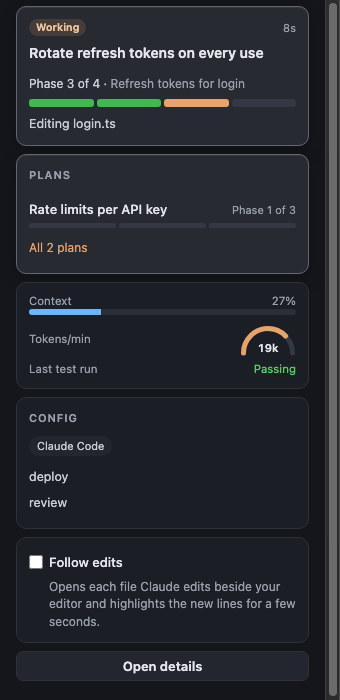
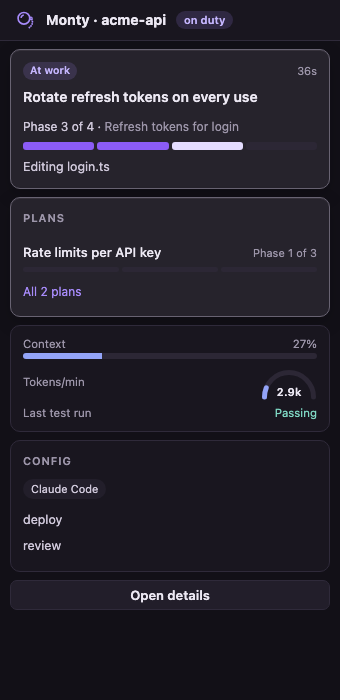
docs: multi-agent READMEs, new screenshots, Monty's voice
The README and the Marketplace listing still said Claude Code only and showed the
old orange theme. They now list the six agents with where each is read and its
caveats, and the screenshots are retaken in the violet theme. The demo script
gains a Codex session so the screenshots show the agent label and a needs-you
state from fictional data.

diff --git a/vscode/README.md b/vscode/README.md
@@ -1,43 +1,56 @@
 # Monty
 
-**Keeps an eye on Claude Code, so you don't have to.** See what your session is doing right now, how far through its plan it is, and which files it has touched, without reading the transcript. On a Mac, a monocle in the menu bar tells you when a session needs you.
+**A discreet eye on your coding agent.** Monty shows what your session is doing right now, how far through its plan it is, and which files it has touched, so you needn't read the transcript. On a Mac, a monocle in the menu bar taps the glass when a session needs you.
 
-![The details view: session, plan progress, what Claude is doing now, activity and files changed](https://raw.githubusercontent.com/adivmaimon/monty/main/docs/screenshots/details.png)
+Works with Claude Code, Codex CLI, opencode, Cline, Roo Code and GitHub Copilot Chat.
+
+![The details view: session, plan progress, what the agent is doing now, activity and files changed](https://raw.githubusercontent.com/adivmaimon/monty/main/docs/screenshots/details.png)
 
 ## What you get
 
-- **A sidebar for the open repo.** The session's state (working, needs you, your turn, done), the plan it's working through as a progress bar, what it's doing right now, context used, and whether the last test run passed.
-- **A details view** with everything: activity, files changed, every plan in the repo, and the repo's AI setup (instructions files, the rules in them, skills, commands, guardrails).
-- **Plans you can read.** Every `.md` opens in a readable view: collapsible sections, phases with progress, Mermaid diagrams, and file references that open in the editor. It updates live as Claude ticks off phases.
-- **Follow mode** (off until you turn it on). Each file Claude changes opens beside your editor with the changed lines highlighted for a moment.
+- **A sidebar for the open repo.** The session's state (at work, needs you, your move, all done), the plan it's working through as a progress bar, what it's doing right now, context used, and whether the last test run passed.
+- **A details view** with the lot: activity, files changed, every plan in the repo, and the repo's AI setup (instructions files, the rules in them, skills, commands, guardrails).
+- **Plans you can read.** Every `.md` opens in a readable view: collapsible sections, phases with progress, Mermaid diagrams, and file references that open in the editor. It updates live as the agent ticks off phases.
+- **Follow mode** (off until you turn it on). Each file the agent changes opens beside your editor with the new lines highlighted for a moment.
 - **Explorer dots** on files the session changed (●) or read (·).
-- **A Mac menu bar app** (optional). The monocle's rim fills as the plan progresses, an orange dot means a session needs you, and a notification tells you too. Monty offers to install it the first time you open VS Code on a Mac.
+- **A Mac menu bar app** (optional). The monocle's rim fills as the plan progresses, a dot appears when a session needs you, and a notification says so too. Monty offers to install it the first time you open VS Code on a Mac.
 
 <p>
   <img alt="The sidebar" src="https://raw.githubusercontent.com/adivmaimon/monty/main/docs/screenshots/sidebar.png" width="300">
-  <img alt="The menu bar dropdown" src="https://raw.githubusercontent.com/adivmaimon/monty/main/docs/screenshots/menubar.png" width="380">
+  <img alt="The menu bar dropdown, with a Codex session that needs you and a Claude Code session at work" src="https://raw.githubusercontent.com/adivmaimon/monty/main/docs/screenshots/menubar.png" width="380">
 </p>
 
 ![A plan in the readable view](https://raw.githubusercontent.com/adivmaimon/monty/main/docs/screenshots/plan.png)
 
+## Which agents
+
+| Agent | Where Monty reads it | Good to know |
+|---|---|---|
+| Claude Code | `~/.claude/projects` | The most complete: todo lists, skills in use, permission guesses. |
+| Codex CLI | `~/.codex/sessions` (or `$CODEX_HOME`) | Codex doesn't record approval requests, so "needs you" is a timing guess and says "probably". |
+| opencode | `~/.local/share/opencode` (or `$XDG_DATA_HOME`) | Both the database (1.2 and later) and the older JSON files. |
+| Cline | VS Code's extension storage, and `~/.cline/data` | Cline 4 keeps sessions in one place or the other depending on the build; both are read. |
+| Roo Code | VS Code's extension storage | Roo asks before every step, so a step only counts as waiting after a few seconds. A custom storage path isn't followed. |
+| Copilot Chat | VS Code's workspace storage | VS Code saves chats about once a minute, so Monty can trail the chat panel by up to a minute. |
+
+Cursor, Windsurf and VSCodium are covered too, for the extensions above that run in them. When more than one agent is about, each session carries a small label saying which.
+
 ## Privacy
 
-Monty reads two things on your machine: Claude Code's session logs (`~/.claude/projects`) and the plan and config files in your repos. It runs a small local server on `127.0.0.1:4747` for VS Code and the menu bar app to talk to. Nothing leaves your machine: no telemetry, no accounts, no cloud.
+Monty reads two things on your machine: your agents' session records (the folders above) and the plan and config files in your repos. It runs a small local server on `127.0.0.1:4747` for VS Code and the menu bar app to talk to. Nothing leaves your machine: no telemetry, no accounts, no cloud. It never opens the credential files that sit beside some of those records.
 
 The one network request Monty ever makes is downloading the menu bar app from this repo's GitHub Releases, and only when you click Install. It checks Apple's signature on the download before installing it.
 
-Monty never writes to your repos or to `~/.claude`.
+Monty never writes to your repos or to any agent's folders.
 
 ## How progress works
 
-Claude Code doesn't keep a task list Monty can read, so progress comes from your plans. Monty reads plan files in:
+When the agent keeps a task list (Claude Code's todos, Codex's plan, Cline's focus chain, Roo's todo list), that is the progress bar. Otherwise progress comes from your plans. Monty reads plan files in:
 
 - `.claude/projects/{active,completed,parked,cancelled}/*.md`, using `### Phase N` headings and ` - DONE (date)` markers
 - [OpenSpec](https://github.com/Fission-AI/OpenSpec) (`openspec/changes/*/tasks.md`)
 - [Spec Kit](https://github.com/github/spec-kit) (`specs/*/tasks.md`)
 - [Kiro](https://kiro.dev) (`.kiro/specs/*/tasks.md`)
-
-A session's progress bar follows the active plan in its repo.
 
 ## Settings
 
@@ -51,8 +64,8 @@ Commands: **Monty: Open details**, **Monty: Toggle follow mode**, **Open readabl
 
 ## Good to know
 
-- **Claude Code's log format isn't a published API.** Monty reads it defensively, but a Claude Code update can change what it can see. If something looks off after an update, please [open an issue](https://github.com/adivmaimon/monty/issues).
-- **"Probably waiting for permission"** is a guess from timing, and it says so. In auto mode Monty doesn't guess, because Claude Code doesn't ask there.
+- **None of these agents publish their log formats.** Monty reads them defensively, built from each tool's source code, but an update can change what it sees. If something looks off after one, please [open an issue](https://github.com/adivmaimon/monty/issues).
+- **Guesses say so.** "Probably awaiting your permission" is a guess from timing, and it reads as one. In Claude Code's auto mode Monty doesn't guess, because nothing asks.
 - **The menu bar app is macOS only.** Everything else works on macOS, Windows and Linux.
 
 ## License

diff --git a/README.md b/README.md
@@ -1,6 +1,6 @@
 # Monty
 
-Keeps an eye on your coding agent. Monty watches Claude Code sessions and the plans in your repos, and shows progress in VS Code and the Mac menu bar.
+A discreet eye on your coding agent. Monty watches sessions from Claude Code, Codex CLI, opencode, Cline, Roo Code and Copilot Chat, along with the plans in your repos, and reports progress in VS Code and the Mac menu bar. It is local, read-only, and never interrupts.
 
 **Install:** search "Monty" in the VS Code Extensions view, or see the [extension's page](vscode/README.md) for what it does, privacy and settings.
 
@@ -11,13 +11,13 @@ Keeps an eye on your coding agent. Monty watches Claude Code sessions and the pl
 One local core, several thin surfaces.
 
 ```
-~/.claude/projects/*/*.jsonl ──┐
-                               ├─> core (Node, src/) ── HTTP/SSE on 127.0.0.1:4747 ──> VS Code extension (vscode/)
-plans and config in your repos ┘                                                  ├─> Mac menu bar app (menubar/MontyApp/)
-                                                                                  └─> browser panel (web/, for development)
+agent session records ─────────┐
+(Claude Code, Codex, opencode, ├─> core (Node, src/) ── HTTP/SSE on 127.0.0.1:4747 ──> VS Code extension (vscode/)
+ Cline, Roo, Copilot Chat)     │                                                  ├─> Mac menu bar app (menubar/MontyApp/)
+plans and config in your repos ┘                                                  └─> browser panel (web/, for development)
 ```
 
-- `src/`: the core. Node built-ins only, no runtime dependencies. It reads session logs incrementally (`session.ts`), plans (`projects.ts`) and AI tool config (`setup.ts`), and serves state on localhost only (`server.ts`).
+- `src/`: the core. Node built-ins only, no runtime dependencies. Each agent has a reader in `src/agents/` that feeds one shared session model (`model.ts`); the core also reads plans (`projects.ts`) and AI tool config (`setup.ts`), and serves state on localhost only (`server.ts`).
 - `web/`: the panel. Plain HTML, CSS and JS with no build step; the same page runs in VS Code webviews and a browser tab.
 - `vscode/`: the extension. It bundles the core and starts it with VS Code's own Node.
 - `menubar/MontyApp/`: the menu bar app. Swift, built with SwiftPM, with no Xcode project.
@@ -36,16 +36,17 @@ code --install-extension vscode/monty.vsix
 menubar/MontyApp/build.sh   # local menu bar build (ad-hoc signed)
 ```
 
-To try it without your own sessions, `node docs/demo/make-demo.mjs /tmp/monty-demo` builds a fictional repo and session log; the script's header says how to point the core at it.
+To try it without your own sessions, `node docs/demo/make-demo.mjs /tmp/monty-demo` builds two fictional repos with a Claude Code and a Codex session; the script's header says how to point the core at it.
 
-Settings for the core come from environment variables: `MONTY_PORT` (4747), `MONTY_PROJECTS` (folders whose repos are all scanned; by default only repos open in VS Code), `MONTY_CLAUDE_PROJECTS` (session log folder), `MONTY_LIVE_HOURS` (3), `MONTY_CONTEXT_WINDOW` (200000).
+Settings for the core come from environment variables: `MONTY_PORT` (4747), `MONTY_PROJECTS` (folders whose repos are all scanned; by default only repos open in VS Code), `MONTY_CLAUDE_PROJECTS` (session log folder), `MONTY_LIVE_HOURS` (3), `MONTY_CONTEXT_WINDOW` (200000), `MONTY_AGENTS` (which agents to read; default all), and `MONTY_CODEX_DIR`, `MONTY_OPENCODE_DIR`, `MONTY_CLINE_DIR`, `MONTY_EDITOR_DIRS` to point at non-standard folders.
 
 ## Principles
 
 - **Local only.** The core binds 127.0.0.1 and never sends session content anywhere. Session logs contain code, prompts and secrets.
 - **Read-only.** Monty never writes to `~/.claude` or to your repos. The one exception is installing the menu bar app when you click Install.
-- **Degrade, don't crash.** Claude Code's log format is not a published API. Unknown lines are skipped, and a format change shows less instead of failing.
-- **Guesses say so.** "Probably waiting for permission" is a timing guess and reads as one.
+- **Degrade, don't crash.** No agent publishes its log format. Readers are built from each tool's source, unknown lines are skipped, and a reader that fails is switched off without taking the others with it.
+- **Guesses say so.** "Probably awaiting your permission" is a timing guess and reads as one.
+- **Mind the manners.** Monty speaks as a monocled butler: dry, brief, never in the way of the facts. Status tags stay plain; the voice lives in the lines around them.
 
 ## License
 

diff --git a/vscode/CHANGELOG.md b/vscode/CHANGELOG.md
@@ -1,5 +1,12 @@
 # Changelog
 
+## Unreleased
+
+- Watches more than Claude Code: Codex CLI, opencode, Cline, Roo Code and GitHub Copilot Chat sessions show up too, each labelled when more than one agent is about.
+- A violet theme across the panel, the menu bar and the icons, with one colour per state: violet at work, orchid needs you, periwinkle your move.
+- Monty now speaks like the monocled butler it is. The facts are unchanged; the manners are new.
+- Mermaid diagrams follow the theme.
+
 ## 0.2.0
 
 First public release.
